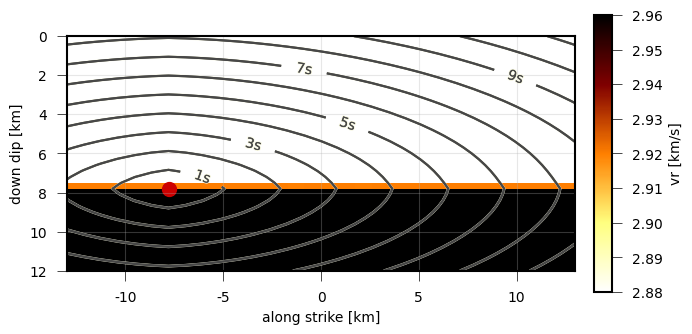
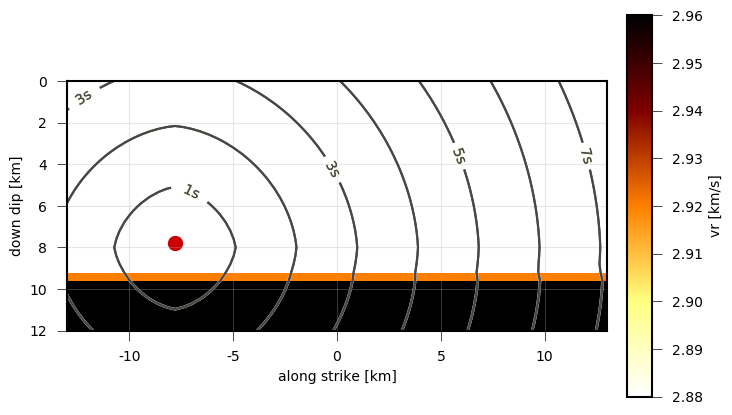
add okada modelling and pseudo-dynamic rupture model (chapter 19)
- bugfixes in vr calculation
- docs
- polishing

Changed region(s): [[0.0, 0.0299, 1.0, 0.988], [0.7587, 0.3293, 0.789, 0.3593]]

diff --git a/src/gf/seismosizer.py b/src/gf/seismosizer.py
@@ -2664,23 +2664,27 @@ class PseudoDynamicRupture(SourceWithDerivedMagnitude):
             num.min(store.config.deltat * vs_min / 2.),
             num.min(store.config.deltas)])
 
-        nx = int(num.floor(self.length / delta)) + 1
+        delta_l = self.length / self.nx
+        delta_w = self.width / self.ny
 
-        if self.length == self.width:
-            ny = nx
-        else:
-            delta = self.length / nx
-            ny = int(num.floor(self.width / delta)) + 1
+        delta = num.min([delta_l, delta_w, delta])
+        delta = delta_w / num.ceil(delta_w / delta)
 
-        nx = nx if nx > self.nx else self.nx
-        ny = ny if ny > self.ny else self.ny
+        nx = int(num.ceil(self.length / delta)) + 1
+        ny = int(num.ceil(self.width / delta)) + 1
 
-        nx += 1
-        ny += 1
+        rest_l = (nx-1)*delta - self.length
+        rest_w = (ny-1)*delta - self.width
+
+        lim_x = rest_l / self.length
+        lim_y = rest_w / self.width
 
         points_xy = num.zeros((nx * ny, 2))
-        points_xy[:, 0] = num.repeat(num.linspace(-1., 1., nx), ny)
-        points_xy[:, 1] = num.tile(num.linspace(-1., 1., ny), nx)
+        points_xy[:, 0] = num.repeat(
+            num.linspace(-1.-lim_x, 1.+lim_x, nx), ny)
+        points_xy[:, 1] = num.tile(
+            num.linspace(-1.-lim_y, 1.+lim_y, ny), nx)
+
         points = self.points_on_source(
             points_x=points_xy[:, 0],
             points_y=points_xy[:, 1],
@@ -4089,7 +4093,6 @@ class HorizontalVectorRule(Rule):
         if nonzero(sa):
             data = data + base_seismogram[e].data * sa
 
-<<<<<<< HEAD
         if self.differentiate:
             deltat = base_seismogram[e].deltat
             data = util.diff_fd(self.differentiate, 4, deltat, data)
@@ -4097,8 +4100,6 @@ class HorizontalVectorRule(Rule):
         if self.integrate:
             raise NotImplementedError('Integration is not implemented yet.')
 
-=======
->>>>>>> 7ee89e76... seismosizer, gf.meta, dynamic_rupture plot: bugfixes
         return data
 
 

diff --git a/src/plot/directivity.py b/src/plot/directivity.py
@@ -311,15 +311,11 @@ def plot_directivity(
     strike_label = mt.strike1
     if hasattr(source, 'strike'):
         strike_label = source.strike
-<<<<<<< HEAD
 
     try:
         ax.set_rlabel_position(strike_label % 180.)
     except AttributeError:
         logger.warn('Old matplotlib version: cannot set label positions')
-=======
-    ax.set_rlabel_position(strike_label % 180.)
->>>>>>> fc47423f... directivity: merge from branch
 
     def r_fmt(v, p):
         if v < tbegin or v > tend:

diff --git a/src/plot/dynamic_rupture.py b/src/plot/dynamic_rupture.py
@@ -1531,9 +1531,11 @@ class RuptureView(Object):
         if self._is_1d:
             return
 
-        ylim = self._axes.get_ylim()
-        if ylim[0] < ylim[-1]:
-            self._axes.set_ylim(ylim[::-1])
+        length, width = xy_to_lw(
+            self.source, num.array([-1., 1.]), num.array([1., -1.]))
+
+        self._axes.set_xlim(length)
+        self._axes.set_ylim(width)
 
     def gcf(self):
         self.finalize()

diff --git a/examples/gf_forward_pseudo_rupture_simple_plot.py b/examples/gf_forward_pseudo_rupture_simple_plot.py
@@ -25,8 +25,8 @@ dyn_rupture = gf.PseudoDynamicRupture(
     width=12*km,
     length=26*km,
 
-    nx=20,
-    ny=30,
+    nx=30,
+    ny=20,
 
     # Relative nucleation between -1. and 1.
     nucleation_x=-.6,
